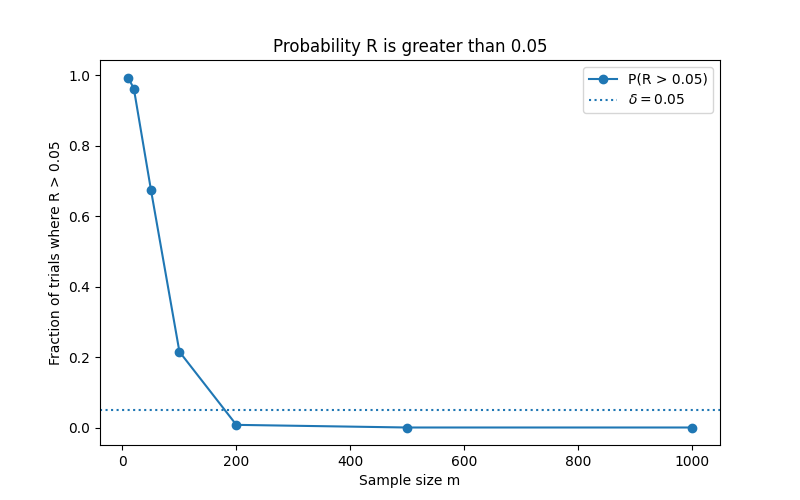
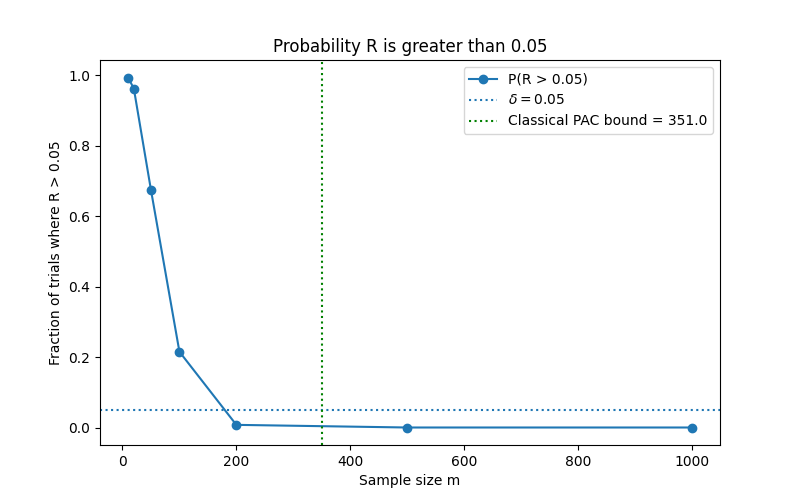
part 3 finished

Changed region(s): [[0.5938, 0.15, 0.9062, 0.27]]

diff --git a/main.py b/main.py
@@ -49,6 +49,155 @@ def can_shatter(X):
 
 # P3 PAC learning in action: rectangles and thresholds
 
+def P3():
+  x1, x2 = 0.2, 0.7
+  y1, y2 = 0.3, 0.6
+  area_c = (x2 - x1) * (y2 - y1) # get the area of c*
+
+  print(f"area(c*) = {area_c}")
+  T = 2000 # number of independent trials
+  m_val = [10,20,50,100,200,500,1000] # range of m
+  e = 0.05
+
+  mean_errors = []
+  probs_R_g_e = []
+  for m in m_val:
+    total_errors = []
+    for i in range(T):
+      points = np.random.uniform(0,1,(m,2)) # get [mx2] uniform points between 0 and 1
+
+      in_c = (
+        (points[:,0] >= x1) & # min x value
+        (points[:,0] <= x2) & # max x value
+        (points[:,1] >= y1) & # min y value
+        (points[:,1] <= y2)   # max y value
+        ) # range for when point will be marked positive
+
+      positive_p = points[in_c] # return all the points that would be positive
+
+      if len(positive_p) == 0:
+        l_area = 0
+      else:
+        l_area = ((np.max(positive_p[:,0]) - np.min(positive_p[:,0])) * (np.max(positive_p[:,1]) - np.min(positive_p[:,1]))) # get the learned area from the max - min of the x and y points
+      
+      total_errors.append(area_c - l_area) # add the error to the array to get mean after looping through T trials
+
+    # get the mean and probabilities of when error > 0.05 (e)
+    mean_error = np.mean(total_errors)
+    prob = np.mean(np.array(total_errors) > e)
+
+    mean_errors.append(mean_error)
+    probs_R_g_e.append(prob)
+  # plot (i) Mean True Error vs m
+  plt.figure(figsize=(8,5))
+  plt.loglog(m_val, mean_errors, label="Mean true error", marker="o")
+  plt.xlabel("Sample size m")
+  plt.ylabel("Mean True Error")
+  plt.title("Mean True Error vs m samples")
+  plt.legend()
+  plt.show()
+
+  # plot (ii) 
+
+  plt.figure(figsize=(8,5))
+
+  plt.plot(m_val,probs_R_g_e, label="P(R > 0.05)", marker="o")
+  plt.axhline(
+    0.05,
+    linestyle=':',
+    label=r"$\delta = 0.05$"
+  ) 
+
+  # (c) 
+  print("Part 3 (c)")
+  m = 4/0.05 * np.log(4/0.05)
+  print(f"m >= 4/0.05 * np.log(4/0.05) = {m}")
+
+  plt.axvline(
+    x=np.round(m),
+    color="green",
+    linestyle=":",
+    label=f"Classical PAC bound = {np.round(m)}"
+  ) # (c) adding the classical PAC bound for when m >= 4/e ln(4/delta)
+
+  plt.xlabel("Sample size m")
+  plt.ylabel("Fraction of trials where R > 0.05")
+  plt.title("Probability R is greater than 0.05")
+  plt.legend()
+  plt.show()
+
+  # (c) smallest m where P(R > 0.05) < 0.05
+  smallest_ms = 0
+  for m in range(100,200,10): # get new range between 100 and 200 to the nearest 10 to find where it first passes the threshold marker (0.05)
+    # repeat (b)
+    total_errors = []
+    for i in range(T):
+      points = np.random.uniform(0,1,(m,2)) # get [mx2] uniform points between 0 and 1
+
+      in_c = (
+        (points[:,0] >= x1) & # min x value
+        (points[:,0] <= x2) & # max x value
+        (points[:,1] >= y1) & # min y value
+        (points[:,1] <= y2)   # max y value
+        ) # range for when point will be marked positive
+
+      positive_p = points[in_c] # return all the points that would be positive
+
+      if len(positive_p) == 0:
+        l_area = 0
+      else:
+        l_area = ((np.max(positive_p[:,0]) - np.min(positive_p[:,0])) * (np.max(positive_p[:,1]) - np.min(positive_p[:,1]))) # get the learned area from the max - min of the x and y points
+      
+      total_errors.append(area_c - l_area) # add the error to the array to get mean after looping through T trials
+
+    # get the mean and probabilities of when error > 0.05 (e)
+    mean_error = np.mean(total_errors)
+    prob = np.mean(np.array(total_errors) > e)
+
+    if prob <= 0.05:
+      smallest_ms = m
+      break # since it it iterating from 100 to 200 by 10 the first m that reaches this threshold can end the loop
+  print(f"Smallest m where empirical P(R > e) <= delta = {smallest_ms}")
+
+  print("End of Part 3 (c)")
+
+  # (d) Fit a straight line to the log–log plot of mean error versus m 
+  print("\nPart 3 (d)")
+  slope, intercept = np.polyfit(
+    np.log(m_val),        # from (b)
+    np.log(mean_errors),  # from (b)
+    1                     # 1 = linear line
+  )
+
+  beta = -slope
+  print(f"slope = {slope}")
+  print(f"beta = {beta}")
+
+  # ln R = -b ln m + C
+  line = np.exp(intercept) * np.array(m_val) ** slope
+
+  plt.figure(figsize=(8,5))
+  plt.loglog(
+    m_val,
+    line,
+    ':',
+    label=f"Line w beta = {beta}"
+  )
+  plt.loglog(m_val,mean_errors, label="Mean true error", marker="o")
+  plt.xlabel("Sample size m")
+  plt.ylabel("Mean True Error")
+  plt.title("Mean True Error vs m samples")
+  plt.legend()
+  plt.show()
+
+  # beta is an exponent of m so subtract beta by 1 (exponent for m) and 0.5 (exponent for sqrt(m))
+  print(f"|{beta} - 1| = {np.abs(beta - 1)}") 
+  print(f"|{beta} - 0.5| = {np.abs(beta - 0.5)}")
+
+  print("\nEnd of Part 3 (d)")
+  
+# P4 Structural Risk Minimization versus cross-validation
+
 # skeleton code provided for P4
 def features(x, d):
   return legvander(x, d)[:, 1:] # columns P_1(x)..P_d(x); constant dropped
@@ -119,103 +268,9 @@ if __name__ == "__main__":
 
   # P3 - PAC learning in action: rectangles and thresholds
   print("\nPart 3 Results:")
-  x1, x2 = 0.2, 0.7
-  y1, y2 = 0.3, 0.6
-  area_c = (x2 - x1) * (y2 - y1) # get the area of c*
-
-  print(f"area(c*) = {area_c}")
-  T = 2000 # number of independent trials
-  m_val = [10,20,50,100,200,500,1000] # range of m
-  e = 0.05
-
-  mean_errors = []
-  probs_R_g_e = []
-  for m in m_val:
-    total_errors = []
-    for i in range(T):
-      points = np.random.uniform(0,1,(m,2)) # get [mx2] uniform points between 0 and 1
-
-      in_c = (
-        (points[:,0] >= x1) & # min x value
-        (points[:,0] <= x2) & # max x value
-        (points[:,1] >= y1) & # min y value
-        (points[:,1] <= y2)   # max y value
-        ) # range for when point will be marked positive
-
-      positive_p = points[in_c] # return all the points that would be positive
-
-      if len(positive_p) == 0:
-        l_area = 0
-      else:
-        l_area = ((np.max(positive_p[:,0]) - np.min(positive_p[:,0])) * (np.max(positive_p[:,1]) - np.min(positive_p[:,1]))) # get the learned area from the max - min of the x and y points
-      
-      total_errors.append(area_c - l_area) # add the error to the array to get mean after looping through T trials
-
-    # get the mean and probabilities of when error > 0.05 (e)
-    mean_error = np.mean(total_errors)
-    prob = np.mean(np.array(total_errors) > e)
-
-    mean_errors.append(mean_error)
-    probs_R_g_e.append(prob)
-  # plot (i) Mean True Error vs m
-  plt.figure(figsize=(8,5))
-  plt.loglog(m_val,mean_errors, label="Mean true error", marker="o")
-  plt.xlabel("Sample size m")
-  plt.ylabel("Mean True Error")
-  plt.title("Mean True Error vs m samples")
-  plt.legend()
-  plt.show()
-
-  # plot (ii) 
-
-  plt.figure(figsize=(8,5))
-
-  plt.plot(m_val,probs_R_g_e, label="P(R > 0.05)", marker="o")
-  plt.axhline(
-    0.05,
-    linestyle=':',
-    label=r"$\delta = 0.05$"
-  ) # (c) add marker for when epsilon = delta = 0.05
-
-  plt.xlabel("Sample size m")
-  plt.ylabel("Fraction of trials where R > 0.05")
-  plt.title("Probability R is greater than 0.05")
-  plt.legend()
-  plt.show()
-
-  # (c) smallest m where P(R > 0.05) < 0.05
-  smallest_ms = 0
-  for m in range(100,200,10): # get new range between 100 and 200 to the nearest 10 to find where it first passes the threshold marker (0.05)
-    # repeat (b)
-    total_errors = []
-    for i in range(T):
-      points = np.random.uniform(0,1,(m,2)) # get [mx2] uniform points between 0 and 1
-
-      in_c = (
-        (points[:,0] >= x1) & # min x value
-        (points[:,0] <= x2) & # max x value
-        (points[:,1] >= y1) & # min y value
-        (points[:,1] <= y2)   # max y value
-        ) # range for when point will be marked positive
-
-      positive_p = points[in_c] # return all the points that would be positive
-
-      if len(positive_p) == 0:
-        l_area = 0
-      else:
-        l_area = ((np.max(positive_p[:,0]) - np.min(positive_p[:,0])) * (np.max(positive_p[:,1]) - np.min(positive_p[:,1]))) # get the learned area from the max - min of the x and y points
-      
-      total_errors.append(area_c - l_area) # add the error to the array to get mean after looping through T trials
-
-    # get the mean and probabilities of when error > 0.05 (e)
-    mean_error = np.mean(total_errors)
-    prob = np.mean(np.array(total_errors) > e)
-
-    if prob <= 0.05:
-      smallest_ms = m
-      break # since it it iterating from 100 to 200 by 10 the first m that reaches this threshold can end the loop
-
-  print(f"Smallest m where empirical P(R > e) <= delta = {smallest_ms}")
+  
+  P3()
+  
 
   print("\nEnd of Part 3")
 
